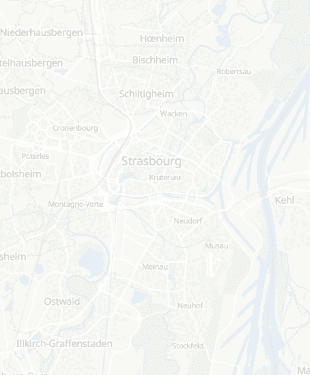
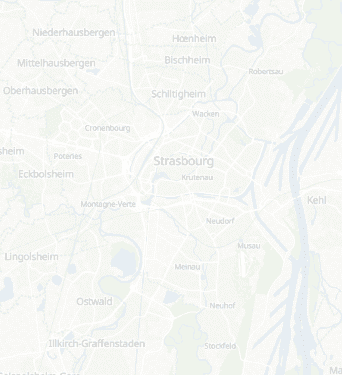
Strasbourg tram extension to Wolfisheim

diff --git a/tramscale/index.html b/tramscale/index.html
@@ -1069,8 +1069,8 @@ window.onload=window.onhashchange;
     <img class="bgmap" src="data:" style="position:absolute; z-index: -1; display:none" width="370" height="261">
     <img class="map" src="sto.svg" title="Stockholm" alt="Stockholm map" width="370" height="261"></span>
 <span id="SXB" style="display: inline-block; vertical-align: middle">Strasbourg<br>
-    <img class="bgmap" src="data:" style="position:absolute; z-index: -1; display:none" width="310" height="375">
-    <img class="map" src="sxb.svg" title="Strasbourg" alt="Strasbourg map" width="310" height="375"></span>
+    <img class="bgmap" src="data:" style="position:absolute; z-index: -1; display:none" width="342" height="375">
+    <img class="map" src="sxb.svg" title="Strasbourg" alt="Strasbourg map" width="342" height="375"></span>
 <span id="STR" style="display: none; vertical-align: middle">Stuttgart<br>
     <img class="bgmap" src="data:" style="position:absolute; z-index: -1; display:none" width="538" height="641">
     <img class="map" src="str.svg" title="Stuttgart" alt="Stuttgart map" width="538" height="641"></span>
